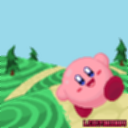
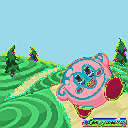
Create more common kernels

diff --git a/src/tinyconv.py b/src/tinyconv.py
@@ -1,24 +1,32 @@
 import numpy as np
 from PIL import Image
+from kernel.box_blur import BoxBlur
+from kernel.gaussian_blur import GaussianBlur
+
+from kernel.kernel import Kernel
+from unsharp_masking import UnsharpMasking
 
 
-def tinyconv(image: np.ndarray, kernel: np.ndarray) -> np.ndarray:
+def tinyconv(image: np.ndarray, kernel: Kernel) -> np.ndarray:
     image_height, image_width, rgb_channels = image.shape
-    kernel_width = int((kernel.shape[0] - 1)/2)
-    kernel_height = int((kernel.shape[1] - 1)/2)
+
+    kernel_ndarray = kernel.as_ndarray()
+    kernel_width = int((kernel_ndarray.shape[0] - 1)/2)
+    kernel_height = int((kernel_ndarray.shape[1] - 1)/2)
+    
     output = np.copy(image)
 
     for channel in range(rgb_channels): 
         for vertical_index in range(kernel_height, image_height - kernel_height):
             for horizontal_index in range(kernel_width, image_width - kernel_width):
                 pixel_surrounding = image[vertical_index-kernel_height:vertical_index+kernel_height+1, horizontal_index-kernel_width:horizontal_index+kernel_width+1, channel]
-                output[vertical_index, horizontal_index, channel] = np.sum(pixel_surrounding * kernel)
+                output[vertical_index, horizontal_index, channel] = np.sum(pixel_surrounding * kernel_ndarray)
 
     return output
 
 if __name__ == "__main__":
     image = np.array(Image.open('kirby.png').convert('RGB'))
-    kernel = np.full(9, 1/9).reshape(3,3)
+    kernel = UnsharpMasking
     
     image = Image.fromarray(tinyconv(image, kernel)).convert('RGB')
     image.save("output.png")

diff --git a/src/unsharp_masking.py b/src/unsharp_masking.py
@@ -1,0 +1,13 @@
+import numpy as np
+from kernel.kernel import Kernel
+
+
+def unsharp_masking() -> np.ndarray:
+    return -1/256 * np.array([[1, 4, 6, 4, 1], 
+                            [4, 16, 24, 16, 4],
+                            [6, 24, -476, 24, 6],
+                            [1, 4, 6, 4, 1], 
+                            [4, 16, 24, 16, 4]])
+
+
+UnsharpMasking = Kernel(unsharp_masking)

diff --git a/src/kernel/gaussian_blur.py b/src/kernel/gaussian_blur.py
@@ -1,0 +1,11 @@
+import numpy as np
+from kernel.kernel import Kernel
+
+
+def gaussian_blur() -> np.ndarray:
+    return 1/16 * np.array([[1, 2, 1], 
+                            [2, 4, 2],
+                            [1, 2, 1]])
+
+
+GaussianBlur = Kernel(gaussian_blur)

diff --git a/src/kernel/kernel.py b/src/kernel/kernel.py
@@ -1,0 +1,8 @@
+from typing import Callable, NamedTuple, TypeVar
+import numpy as np
+
+T = TypeVar("T")
+
+
+class Kernel(NamedTuple):
+    as_ndarray: Callable[[], np.ndarray]

diff --git a/src/kernel/box_blur.py b/src/kernel/box_blur.py
@@ -1,0 +1,9 @@
+import numpy as np
+from kernel.kernel import Kernel
+
+
+def box_blur() -> np.ndarray:
+    return np.full(9, 1/9).reshape(3,3)
+
+
+BoxBlur = Kernel(box_blur)
